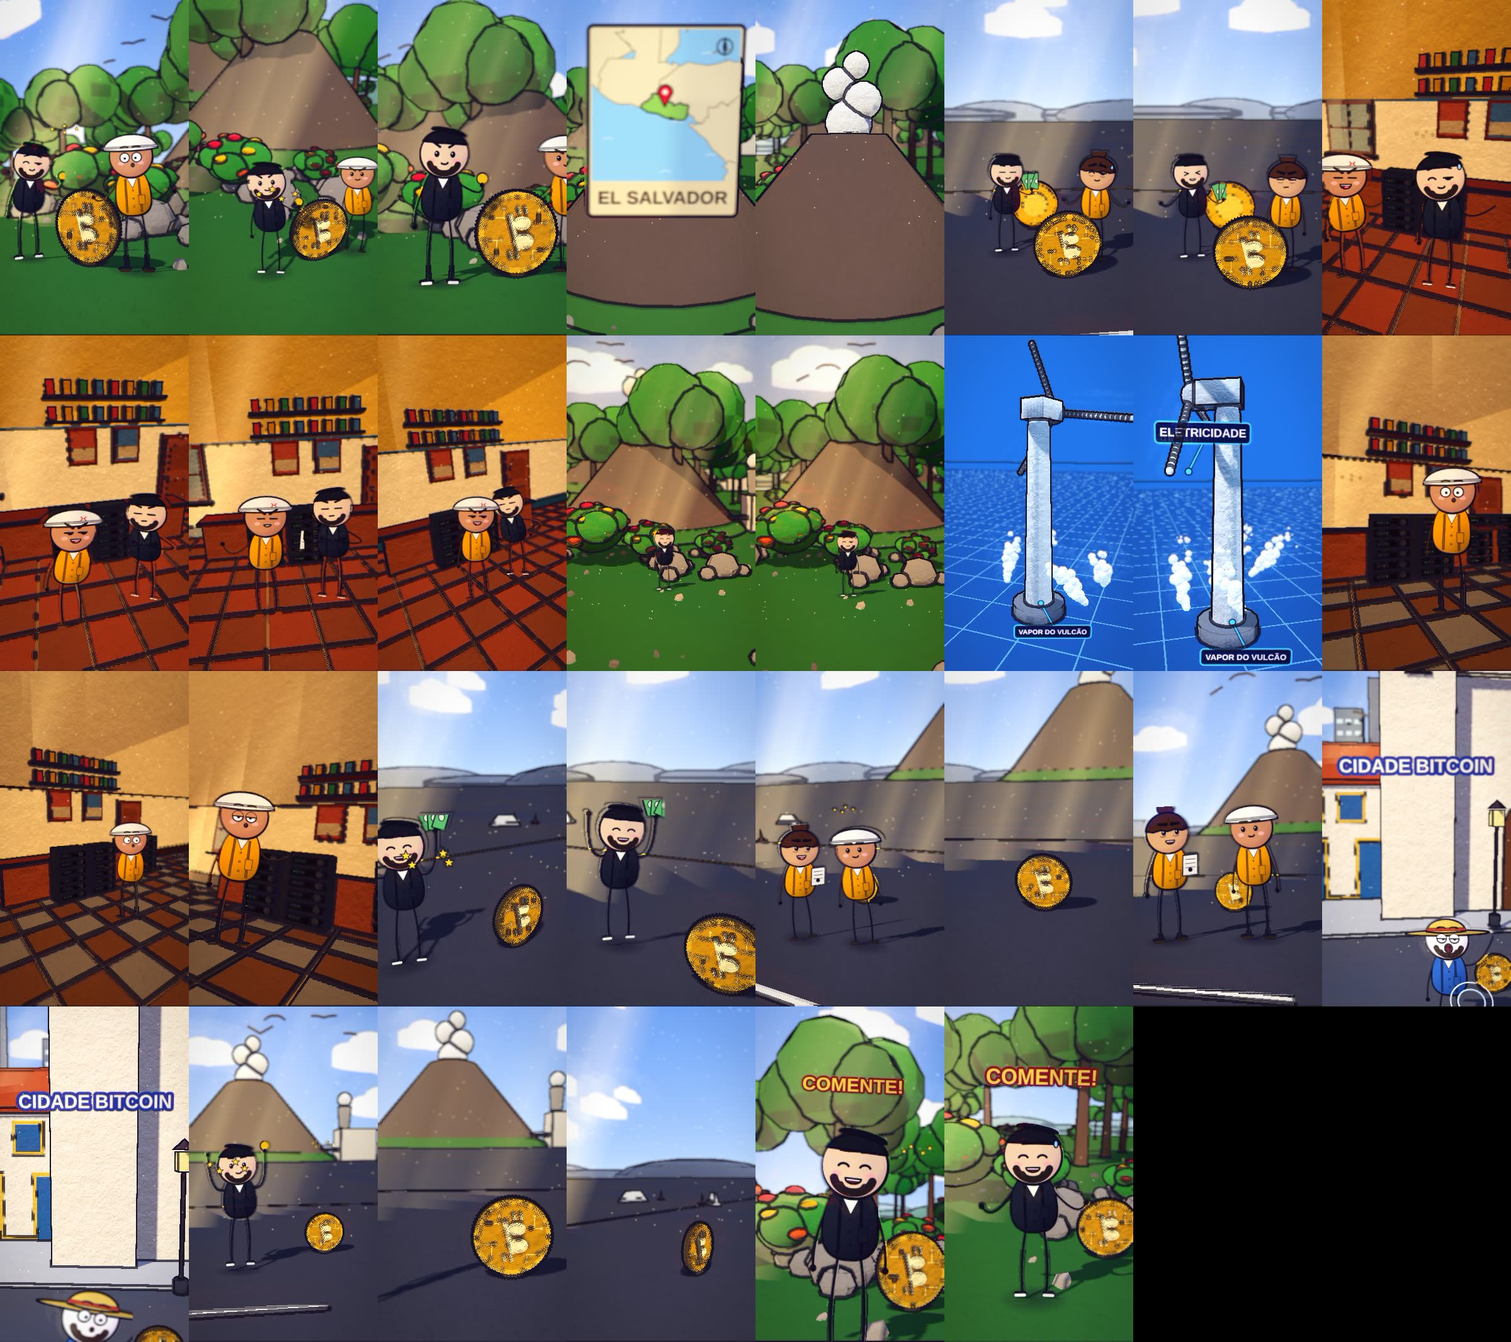
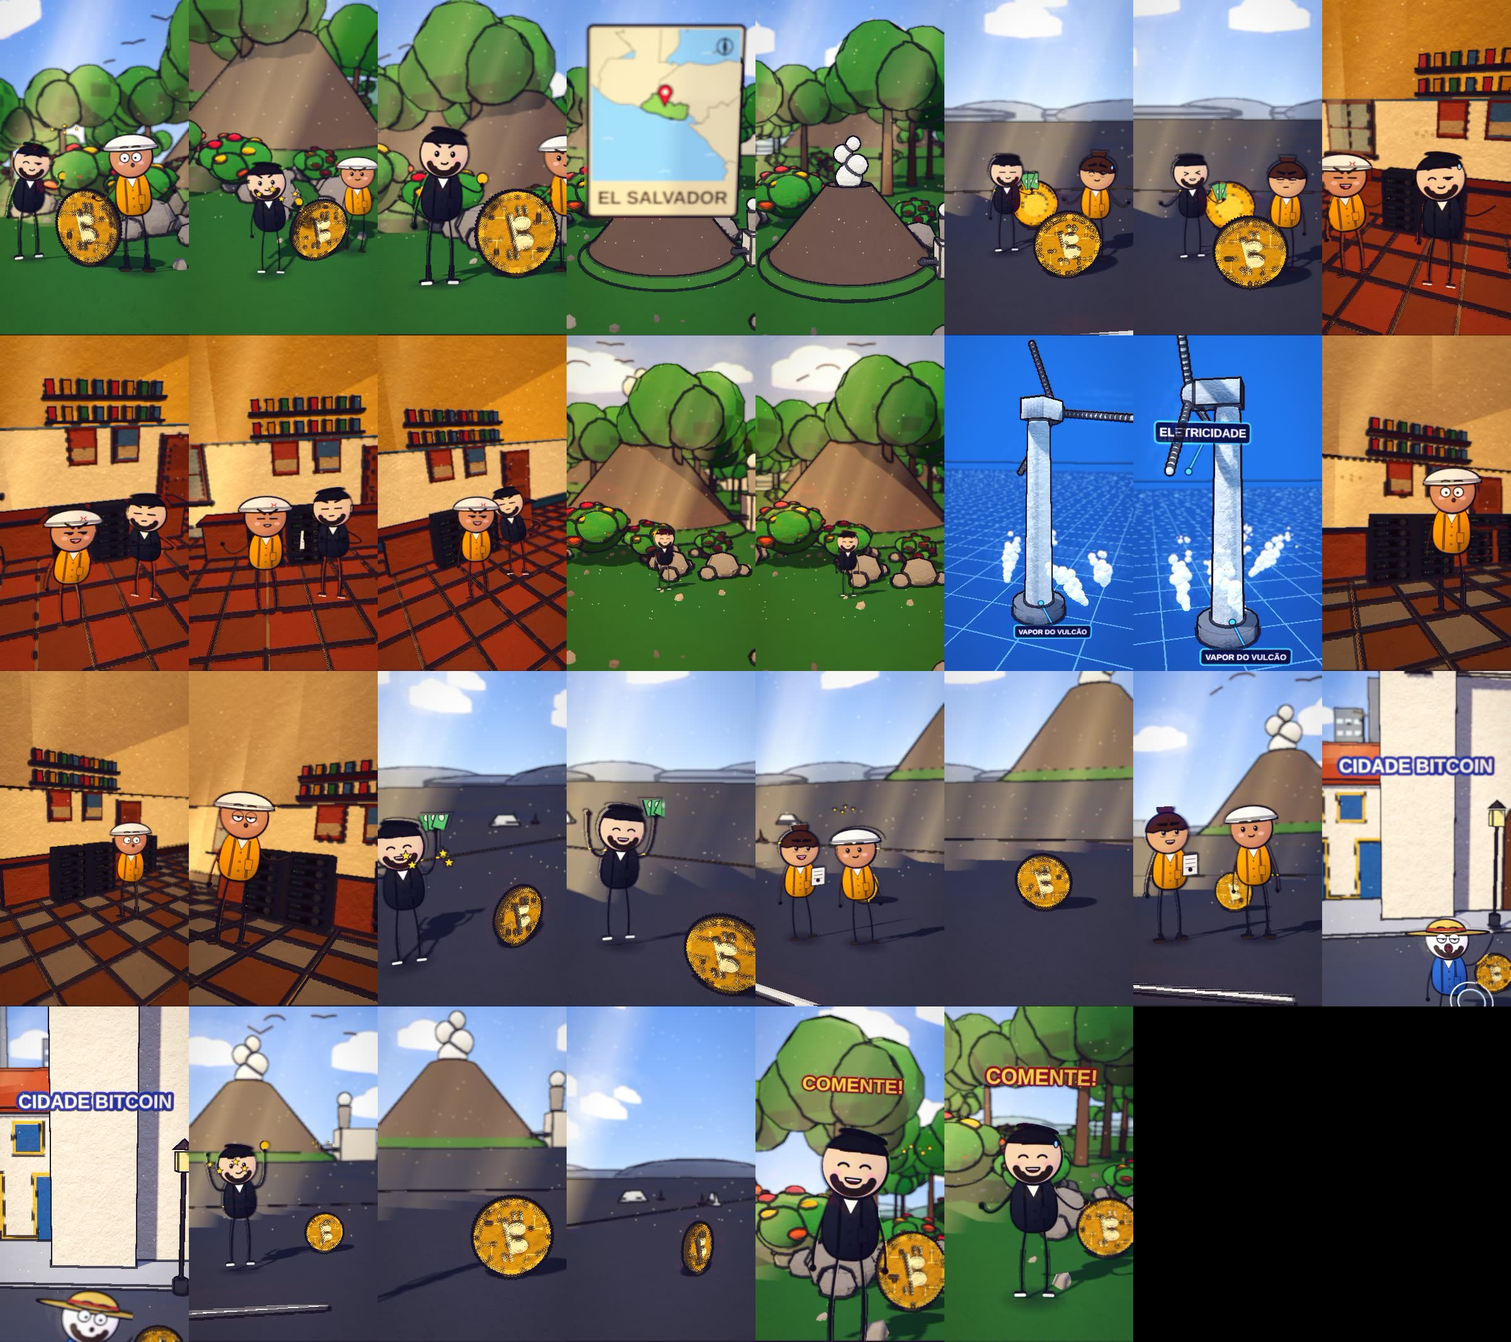
ckpt antes do sync automatico da ferramenta

Changed region(s): [[0.375, 0.031, 0.625, 0.2477]]

diff --git a/ferramenta-shorts/web/story.js b/ferramenta-shorts/web/story.js
@@ -35,7 +35,7 @@ const SPEC = {
   kicks: [], flashes: [],
   shots: [
     S('b0', A[0], A[1] - 1, X, "day", { h: 2.3, d0: 12.1, d1: 11.5, az0: -6, az1: 8, cx: 0.0, cz: -0.6, hero: { hero: 'any', frame: 'medium', minH: 0.07, main: 2 }, actors: [pp(X, "BUK", 0, -1.0, 1.3, ((f) => f >= WS(5) - 4 ? "determined" : "smug"), { over: { hold: "coin" }, inter: { k: 'nod', a: Math.round(A[0] + (A[1] - 1 - (A[0])) * 0.12), b: Math.round(A[0] + (A[1] - 1 - (A[0])) * 0.82), dir: 1, n: 2, ph: 0 } }), pp(X, "ENG", 0, 1.0, 1.0, ((f) => f >= WS(5) - 4 ? "determined" : "surprised"), { pose: 'talk', inter: { k: 'lean', a: Math.round(A[0] + (A[1] - 1 - (A[0])) * 0.2), b: Math.round(A[0] + (A[1] - 1 - (A[0])) * 0.9), dir: -1, n: 2, ph: 3.14 } })], props: [{ asset: "kit/bitcoin", at: [X + 0.6, 1.0], s: 1.5, fixo: true, drop: false }, { asset: "kit/volcano", at: [X + 7.0, -18.8], s: 2.6, fixo: true, drop: false }, { asset: "kit/volcano", at: [X + 0, -120], s: 9.0, drop: false }], fx: [{ k: 'stars', a: A[0] + 6, b: A[0] + 40, at: [X + 0.6, DK + 1.6, 1.5], s: 0.8 }, { k: 'birds', a: A[0], b: A[1] - 1, at: [X, DK + 4.5, -30], n: 4, dir: 1, off: 8 }, { k: "stars", a: A[0] + 30, b: A[0] + 56, at: [X, DK + 0.5, 1.2], s: 1.1 }, { k: "stars", a: WS(7), b: WS(7) + 28, at: [X + -1.0, DK + 0.5, 2.5], s: 1.1 }] }),
-    { ...S('b1', A[1], A[2] - 1, X, "day", { h: 4.0, d0: 21.0, d1: 20.0, el: 5, fov: 46, cx: 0.0, cz: -2.0, hero: { hero: 'none', wide: true }, vary: false, nocut: true, trans: 'dissolve', actors: [pp(X, "POV", 0, 0.0, -0.4, "smile")], props: [{ asset: "kit/volcano", at: [X + 0.0, -1.0], s: 1.56, fixo: true, drop: false }, { asset: "kit/volcano", at: [X + 0, -120], s: 9.0, drop: false }], fx: [{ k: 'map', a: WS(18, -2), b: Math.min(A[2] - 1, WS(18, -2) + 54), text: "EL SALVADOR", geo: {"polys": [[656, 174, 654, 177, 652, 178, 647, 187, 646, 188, 645, 181, 643, 181, 640, 183, 638, 186, 641, 190, 643, 190, 646, 192, 654, 221, 652, 226, 647, 234, 643, 241, 638, 246, 632, 264, 627, 294, 631, 321, 629, 346, 631, 352, 631, 360, 627, 361, 625, 361, 623, 356, 623, 352, 626, 348, 627, 341, 625, 338, 623, 345, 619, 348, 617, 350, 614, 353, 617, 360, 620, 365, 621, 369, 620, 373, 619, 388, 618, 387, 617, 385, 613, 385, 613, 391, 613, 394, 610, 397, 609, 399, 612, 401, 614, 402, 618, 402, 621, 409, 621, 415, 615, 420, 613, 425, 609, 430, 607, 436, 606, 440, 609, 452, 613, 460, 617, 466, 622, 467, 621, 473, 617, 477, 610, 480, 603, 480, 590, 477, 585, 477, 583, 475, 583, 473, 579, 468, 573, 463, 569, 463, 563, 462, 553, 458, 548, 457, 541, 461, 534, 465, 515, 458, 501, 454, 490, 449, 486, 448, 484, 448, 482, 450, 479, 454, 478, 455, 477, 456, 475, 457, 475, 455, 469, 447, 460, 437, 425, 408, 412, 391, 405, 378, 398, 371, 379, 358, 374, 353, 355, 335, 341, 324, 341, 320, 347, 314, 350, 314, 353, 318, 358, 323, 360, 323, 364, 321, 364, 319, 383, 318, 387, 317, 390, 313, 392, 309, 393, 305, 393, 301, 396, 298, 402, 297, 406, 297, 408, 295, 406, 288, 404, 272, 404, 267, 404, 264, 406, 262, 415, 262, 431, 263, 434, 262, 441, 253, 447, 246, 451, 243, 455, 242, 458, 248, 472, 257, 475, 256, 476, 256, 476, 254, 476, 250, 480, 247, 487, 243, 494, 238, 501, 229, 507, 224, 513, 223, 515, 221, 513, 218, 514, 213, 516, 208, 519, 204, 523, 204, 525, 202, 524, 199, 525, 196, 528, 191, 537, 187, 542, 189, 546, 194, 552, 198, 559, 200, 565, 199, 570, 196, 573, 195, 577, 196, 578, 195, 579, 192, 580, 192, 584, 193, 587, 194, 589, 193, 590, 191, 591, 190, 592, 189, 599, 190, 606, 188, 615, 184, 620, 182, 623, 182, 626, 180, 629, 175, 638, 173, 656, 174], [-1717, -1087, -1549, -1101, -1325, -1011, -1094, -1001, -1017, -1033, -941, -1006, -847, -905, -776, -848, -721, -856, -659, -891, -611, -879, -544, -798, -492, -735, -482, -694, -434, -642, -342, -610, -340, -562, -364, -394, -336, -302, -343, -302, -336, -265, -250, -128, -215, -92, -149, -67, -40, -73, 40, -94, 89, -87, 76, -104, 144, -182, 186, -276, 306, -301, 376, -295, 378, -303, 393, -243, 352, -174, 357, -150, 352, -137, 321, -74, 299, -79, 255, -36, 135, -29, 93, 22, 145, 70, 92, 97, 33, 168, 24, 204, -83, 110, -122, 89, -145, 77, -173, 80, -256, 124, -444, 62, -601, 1, -698, -45, -828, -121, -913, -209, -899, -242, -884, -293, -956, -406, -1044, -500, -1080, -524, -1083, -550, -1151, -580, -1163, -588, -1157, -636, -1207, -673, -1258, -722, -1297, -759, -1362, -826, -1398, -885, -1434, -973, -1444, -996, -1504, -1014, -1557, -1035, -1543, -922, -1467, -841, -1435, -798, -1411, -754, -1359, -687, -1344, -681, -1309, -602, -1270, -516, -1241, -492, -1199, -460, -1207, -396, -1272, -465, -1346, -519, -1366, -591, -1439, -686, -1498, -689, -1558, -737, -1518, -750, -1516, -755, -1564, -859, -1625, -927, -1661, -992, -1681, -1038], [656, 174, 629, 175, 623, 182, 615, 184, 599, 190, 591, 190, 589, 193, 584, 193, 579, 192, 577, 196, 570, 196, 559, 200, 546, 194, 537, 187, 525, 196, 525, 202, 519, 204, 514, 213, 515, 221, 507, 224, 494, 238, 480, 247, 476, 254, 475, 256, 458, 248, 451, 243, 441, 253, 431, 263, 406, 262, 404, 267, 406, 288, 406, 297, 396, 298, 393, 305, 390, 313, 383, 318, 364, 311, 356, 302, 354, 295, 346, 290, 334, 290, 336, 285, 335, 281, 333, 276, 337, 259, 331, 253, 318, 254, 312, 248, 299, 250, 286, 256, 283, 252, 282, 247, 271, 244, 266, 240, 257, 234, 246, 224, 239, 219, 224, 216, 224, 212, 236, 202, 234, 189, 233, 181, 238, 168, 250, 163, 270, 148, 292, 129, 302, 121, 314, 118, 324, 111, 338, 108, 350, 114, 361, 114, 394, 119, 424, 116, 445, 110, 462, 105, 458, 100, 493, 109, 524, 104, 552, 110, 563, 116, 567, 114, 561, 111, 613, 142, 599, 136, 589, 138, 590, 145, 596, 144, 606, 148, 614, 158, 620, 155, 629, 158, 628, 152, 622, 147, 646, 168, 656, 174], [428, 74, 417, 80, 413, 80, 418, 76, 427, 72, 434, 70, 440, 71, 428, 74], [466, 68, 461, 73, 460, 71, 463, 67, 466, 65, 469, 65, 468, 67, 466, 68], [22, 206, 24, 204, 25, 200, 27, 196, 26, 191, 25, 187, 27, 181, 27, 176, 28, 173, 31, 172, 33, 168, 24, 156, 24, 154, 25, 150, 32, 138, 41, 123, 51, 106, 57, 97, 78, 97, 92, 97, 110, 97, 129, 97, 142, 97, 147, 96, 146, 90, 147, 83, 149, 76, 149, 74, 145, 70, 138, 68, 134, 65, 134, 61, 132, 56, 128, 51, 121, 45, 110, 39, 100, 31, 93, 22, 86, 15, 81, 13, 80, 11, 95, 11, 109, 11, 109, -2, 109, -15, 109, -29, 135, -29, 165, -29, 197, -29, 222, -29, 237, -29, 236, -11, 235, 9, 235, 24, 234, 43, 233, 64, 232, 91, 231, 109, 232, 110, 240, 109, 252, 109, 255, 109, 259, 111, 262, 111, 268, 115, 276, 119, 280, 112, 278, 109, 276, 107, 276, 105, 302, 121, 299, 124, 292, 129, 280, 139, 270, 148, 260, 155, 250, 163, 249, 163, 238, 168, 236, 171, 233, 181, 232, 183, 234, 189, 236, 197, 236, 202, 228, 207, 224, 212, 223, 215, 221, 215, 219, 214, 213, 216, 210, 216, 208, 217, 207, 220, 209, 225, 210, 228, 208, 229, 201, 232, 198, 235, 195, 240, 192, 242, 189, 241, 187, 242, 182, 246, 175, 252, 171, 257, 171, 261, 171, 264, 145, 253, 136, 251, 98, 251, 82, 246, 63, 237, 51, 229, 22, 206], [223, 215, 224, 216, 236, 219, 239, 219, 244, 222, 246, 224, 248, 227, 257, 234, 259, 236, 266, 240, 268, 243, 271, 244, 277, 245, 282, 247, 282, 248, 283, 252, 284, 256, 286, 256, 289, 254, 299, 250, 307, 246, 312, 248, 315, 252, 318, 254, 325, 253, 331, 253, 336, 257, 337, 259, 334, 271, 333, 276, 333, 280, 335, 281, 336, 283, 336, 285, 331, 289, 329, 290, 330, 297, 326, 301, 323, 304, 316, 305, 305, 306, 288, 302, 276, 297, 270, 297, 272, 299, 277, 300, 284, 303, 282, 304, 257, 297, 228, 283, 211, 281, 192, 277, 180, 268, 171, 264, 171, 261, 171, 257, 175, 252, 182, 246, 187, 242, 189, 241, 192, 242, 195, 240, 198, 235, 201, 232, 208, 229, 210, 228, 209, 225, 207, 220, 208, 217, 210, 216, 213, 216, 219, 214, 221, 215, 223, 215], [697, 564, 697, 565, 696, 566, 694, 568, 692, 569, 686, 566, 681, 562, 678, 564, 677, 568, 675, 570, 672, 571, 671, 573, 671, 587, 671, 601, 675, 601, 682, 606, 685, 609, 686, 611, 685, 612, 680, 615, 675, 619, 673, 624, 677, 631, 678, 636, 678, 642, 677, 644, 667, 650, 665, 653, 665, 654, 670, 658, 673, 663, 675, 668, 675, 672, 671, 664, 664, 656, 658, 652, 658, 641, 656, 635, 647, 629, 639, 625, 634, 626, 637, 632, 646, 640, 647, 644, 646, 648, 641, 647, 635, 645, 629, 645, 625, 642, 616, 633, 622, 624, 624, 619, 624, 608, 622, 603, 615, 594, 604, 585, 589, 578, 582, 572, 563, 567, 556, 564, 551, 559, 550, 554, 552, 548, 547, 540, 526, 525, 513, 519, 511, 516, 509, 515, 511, 525, 516, 532, 530, 538, 534, 541, 535, 546, 527, 555, 523, 557, 522, 562, 519, 563, 516, 560, 505, 547, 484, 540, 480, 536, 471, 523, 468, 512, 469, 505, 478, 493, 481, 487, 480, 484, 481, 480, 477, 476, 469, 472, 464, 469, 465, 467, 475, 462, 475, 458, 475, 457, 477, 456, 478, 455, 479, 454, 482, 450, 484, 448, 486, 448, 490, 449, 501, 454, 515, 458, 534, 465, 541, 461, 548, 457, 553, 458, 563, 462, 569, 463, 573, 463, 579, 468, 583, 473, 583, 475, 585, 477, 590, 477, 603, 480, 610, 480, 617, 477, 621, 473, 622, 467, 624, 470, 626, 475, 627, 480, 636, 500, 643, 510, 658, 530, 665, 534, 676, 550, 680, 552, 682, 557, 694, 561, 697, 564], [237, -29, 236, -35, 238, -40, 244, -42, 252, -38, 255, -36, 258, -37, 261, -40, 266, -47, 277, -63, 281, -74, 285, -77, 292, -77, 297, -76, 293, -68, 297, -67, 301, -68, 309, -67, 312, -59, 311, -51, 303, -31, 302, -24, 299, -14, 304, -7, 299, 2, 297, 7, 297, 16, 300, 32, 296, 56, 289, 66, 285, 70, 278, 81, 269, 84, 256, 100, 254, 105, 255, 109, 252, 109, 240, 109, 232, 110, 231, 109, 232, 91, 233, 64, 234, 43, 235, 24, 235, 9, 236, -11, 237, -29], [328, -1, 323, 9, 322, 6, 324, -1, 327, -4, 329, -6, 330, -10, 332, -8, 332, -5, 328, -1]], "hl": [6], "pin": [254.0, 260.0]} }] }), nocut: true },
+    { ...S('b1', A[1], A[2] - 1, X, "day", { h: 4.0, d0: 21.0, d1: 20.0, el: 5, fov: 46, cx: 0.0, cz: -2.0, hero: { hero: 'none', wide: true }, vary: false, nocut: true, trans: 'dissolve', actors: [pp(X, "POV", 0, 0.0, -0.4, "smile")], props: [{ asset: "kit/volcano", at: [X + 0.0, -1.0], s: 0.94, fixo: true, drop: false }, { asset: "kit/volcano", at: [X + 0, -120], s: 9.0, drop: false }], fx: [{ k: 'map', a: WS(18, -2), b: Math.min(A[2] - 1, WS(18, -2) + 54), text: "EL SALVADOR", geo: {"polys": [[656, 174, 654, 177, 652, 178, 647, 187, 646, 188, 645, 181, 643, 181, 640, 183, 638, 186, 641, 190, 643, 190, 646, 192, 654, 221, 652, 226, 647, 234, 643, 241, 638, 246, 632, 264, 627, 294, 631, 321, 629, 346, 631, 352, 631, 360, 627, 361, 625, 361, 623, 356, 623, 352, 626, 348, 627, 341, 625, 338, 623, 345, 619, 348, 617, 350, 614, 353, 617, 360, 620, 365, 621, 369, 620, 373, 619, 388, 618, 387, 617, 385, 613, 385, 613, 391, 613, 394, 610, 397, 609, 399, 612, 401, 614, 402, 618, 402, 621, 409, 621, 415, 615, 420, 613, 425, 609, 430, 607, 436, 606, 440, 609, 452, 613, 460, 617, 466, 622, 467, 621, 473, 617, 477, 610, 480, 603, 480, 590, 477, 585, 477, 583, 475, 583, 473, 579, 468, 573, 463, 569, 463, 563, 462, 553, 458, 548, 457, 541, 461, 534, 465, 515, 458, 501, 454, 490, 449, 486, 448, 484, 448, 482, 450, 479, 454, 478, 455, 477, 456, 475, 457, 475, 455, 469, 447, 460, 437, 425, 408, 412, 391, 405, 378, 398, 371, 379, 358, 374, 353, 355, 335, 341, 324, 341, 320, 347, 314, 350, 314, 353, 318, 358, 323, 360, 323, 364, 321, 364, 319, 383, 318, 387, 317, 390, 313, 392, 309, 393, 305, 393, 301, 396, 298, 402, 297, 406, 297, 408, 295, 406, 288, 404, 272, 404, 267, 404, 264, 406, 262, 415, 262, 431, 263, 434, 262, 441, 253, 447, 246, 451, 243, 455, 242, 458, 248, 472, 257, 475, 256, 476, 256, 476, 254, 476, 250, 480, 247, 487, 243, 494, 238, 501, 229, 507, 224, 513, 223, 515, 221, 513, 218, 514, 213, 516, 208, 519, 204, 523, 204, 525, 202, 524, 199, 525, 196, 528, 191, 537, 187, 542, 189, 546, 194, 552, 198, 559, 200, 565, 199, 570, 196, 573, 195, 577, 196, 578, 195, 579, 192, 580, 192, 584, 193, 587, 194, 589, 193, 590, 191, 591, 190, 592, 189, 599, 190, 606, 188, 615, 184, 620, 182, 623, 182, 626, 180, 629, 175, 638, 173, 656, 174], [-1717, -1087, -1549, -1101, -1325, -1011, -1094, -1001, -1017, -1033, -941, -1006, -847, -905, -776, -848, -721, -856, -659, -891, -611, -879, -544, -798, -492, -735, -482, -694, -434, -642, -342, -610, -340, -562, -364, -394, -336, -302, -343, -302, -336, -265, -250, -128, -215, -92, -149, -67, -40, -73, 40, -94, 89, -87, 76, -104, 144, -182, 186, -276, 306, -301, 376, -295, 378, -303, 393, -243, 352, -174, 357, -150, 352, -137, 321, -74, 299, -79, 255, -36, 135, -29, 93, 22, 145, 70, 92, 97, 33, 168, 24, 204, -83, 110, -122, 89, -145, 77, -173, 80, -256, 124, -444, 62, -601, 1, -698, -45, -828, -121, -913, -209, -899, -242, -884, -293, -956, -406, -1044, -500, -1080, -524, -1083, -550, -1151, -580, -1163, -588, -1157, -636, -1207, -673, -1258, -722, -1297, -759, -1362, -826, -1398, -885, -1434, -973, -1444, -996, -1504, -1014, -1557, -1035, -1543, -922, -1467, -841, -1435, -798, -1411, -754, -1359, -687, -1344, -681, -1309, -602, -1270, -516, -1241, -492, -1199, -460, -1207, -396, -1272, -465, -1346, -519, -1366, -591, -1439, -686, -1498, -689, -1558, -737, -1518, -750, -1516, -755, -1564, -859, -1625, -927, -1661, -992, -1681, -1038], [656, 174, 629, 175, 623, 182, 615, 184, 599, 190, 591, 190, 589, 193, 584, 193, 579, 192, 577, 196, 570, 196, 559, 200, 546, 194, 537, 187, 525, 196, 525, 202, 519, 204, 514, 213, 515, 221, 507, 224, 494, 238, 480, 247, 476, 254, 475, 256, 458, 248, 451, 243, 441, 253, 431, 263, 406, 262, 404, 267, 406, 288, 406, 297, 396, 298, 393, 305, 390, 313, 383, 318, 364, 311, 356, 302, 354, 295, 346, 290, 334, 290, 336, 285, 335, 281, 333, 276, 337, 259, 331, 253, 318, 254, 312, 248, 299, 250, 286, 256, 283, 252, 282, 247, 271, 244, 266, 240, 257, 234, 246, 224, 239, 219, 224, 216, 224, 212, 236, 202, 234, 189, 233, 181, 238, 168, 250, 163, 270, 148, 292, 129, 302, 121, 314, 118, 324, 111, 338, 108, 350, 114, 361, 114, 394, 119, 424, 116, 445, 110, 462, 105, 458, 100, 493, 109, 524, 104, 552, 110, 563, 116, 567, 114, 561, 111, 613, 142, 599, 136, 589, 138, 590, 145, 596, 144, 606, 148, 614, 158, 620, 155, 629, 158, 628, 152, 622, 147, 646, 168, 656, 174], [428, 74, 417, 80, 413, 80, 418, 76, 427, 72, 434, 70, 440, 71, 428, 74], [466, 68, 461, 73, 460, 71, 463, 67, 466, 65, 469, 65, 468, 67, 466, 68], [22, 206, 24, 204, 25, 200, 27, 196, 26, 191, 25, 187, 27, 181, 27, 176, 28, 173, 31, 172, 33, 168, 24, 156, 24, 154, 25, 150, 32, 138, 41, 123, 51, 106, 57, 97, 78, 97, 92, 97, 110, 97, 129, 97, 142, 97, 147, 96, 146, 90, 147, 83, 149, 76, 149, 74, 145, 70, 138, 68, 134, 65, 134, 61, 132, 56, 128, 51, 121, 45, 110, 39, 100, 31, 93, 22, 86, 15, 81, 13, 80, 11, 95, 11, 109, 11, 109, -2, 109, -15, 109, -29, 135, -29, 165, -29, 197, -29, 222, -29, 237, -29, 236, -11, 235, 9, 235, 24, 234, 43, 233, 64, 232, 91, 231, 109, 232, 110, 240, 109, 252, 109, 255, 109, 259, 111, 262, 111, 268, 115, 276, 119, 280, 112, 278, 109, 276, 107, 276, 105, 302, 121, 299, 124, 292, 129, 280, 139, 270, 148, 260, 155, 250, 163, 249, 163, 238, 168, 236, 171, 233, 181, 232, 183, 234, 189, 236, 197, 236, 202, 228, 207, 224, 212, 223, 215, 221, 215, 219, 214, 213, 216, 210, 216, 208, 217, 207, 220, 209, 225, 210, 228, 208, 229, 201, 232, 198, 235, 195, 240, 192, 242, 189, 241, 187, 242, 182, 246, 175, 252, 171, 257, 171, 261, 171, 264, 145, 253, 136, 251, 98, 251, 82, 246, 63, 237, 51, 229, 22, 206], [223, 215, 224, 216, 236, 219, 239, 219, 244, 222, 246, 224, 248, 227, 257, 234, 259, 236, 266, 240, 268, 243, 271, 244, 277, 245, 282, 247, 282, 248, 283, 252, 284, 256, 286, 256, 289, 254, 299, 250, 307, 246, 312, 248, 315, 252, 318, 254, 325, 253, 331, 253, 336, 257, 337, 259, 334, 271, 333, 276, 333, 280, 335, 281, 336, 283, 336, 285, 331, 289, 329, 290, 330, 297, 326, 301, 323, 304, 316, 305, 305, 306, 288, 302, 276, 297, 270, 297, 272, 299, 277, 300, 284, 303, 282, 304, 257, 297, 228, 283, 211, 281, 192, 277, 180, 268, 171, 264, 171, 261, 171, 257, 175, 252, 182, 246, 187, 242, 189, 241, 192, 242, 195, 240, 198, 235, 201, 232, 208, 229, 210, 228, 209, 225, 207, 220, 208, 217, 210, 216, 213, 216, 219, 214, 221, 215, 223, 215], [697, 564, 697, 565, 696, 566, 694, 568, 692, 569, 686, 566, 681, 562, 678, 564, 677, 568, 675, 570, 672, 571, 671, 573, 671, 587, 671, 601, 675, 601, 682, 606, 685, 609, 686, 611, 685, 612, 680, 615, 675, 619, 673, 624, 677, 631, 678, 636, 678, 642, 677, 644, 667, 650, 665, 653, 665, 654, 670, 658, 673, 663, 675, 668, 675, 672, 671, 664, 664, 656, 658, 652, 658, 641, 656, 635, 647, 629, 639, 625, 634, 626, 637, 632, 646, 640, 647, 644, 646, 648, 641, 647, 635, 645, 629, 645, 625, 642, 616, 633, 622, 624, 624, 619, 624, 608, 622, 603, 615, 594, 604, 585, 589, 578, 582, 572, 563, 567, 556, 564, 551, 559, 550, 554, 552, 548, 547, 540, 526, 525, 513, 519, 511, 516, 509, 515, 511, 525, 516, 532, 530, 538, 534, 541, 535, 546, 527, 555, 523, 557, 522, 562, 519, 563, 516, 560, 505, 547, 484, 540, 480, 536, 471, 523, 468, 512, 469, 505, 478, 493, 481, 487, 480, 484, 481, 480, 477, 476, 469, 472, 464, 469, 465, 467, 475, 462, 475, 458, 475, 457, 477, 456, 478, 455, 479, 454, 482, 450, 484, 448, 486, 448, 490, 449, 501, 454, 515, 458, 534, 465, 541, 461, 548, 457, 553, 458, 563, 462, 569, 463, 573, 463, 579, 468, 583, 473, 583, 475, 585, 477, 590, 477, 603, 480, 610, 480, 617, 477, 621, 473, 622, 467, 624, 470, 626, 475, 627, 480, 636, 500, 643, 510, 658, 530, 665, 534, 676, 550, 680, 552, 682, 557, 694, 561, 697, 564], [237, -29, 236, -35, 238, -40, 244, -42, 252, -38, 255, -36, 258, -37, 261, -40, 266, -47, 277, -63, 281, -74, 285, -77, 292, -77, 297, -76, 293, -68, 297, -67, 301, -68, 309, -67, 312, -59, 311, -51, 303, -31, 302, -24, 299, -14, 304, -7, 299, 2, 297, 7, 297, 16, 300, 32, 296, 56, 289, 66, 285, 70, 278, 81, 269, 84, 256, 100, 254, 105, 255, 109, 252, 109, 240, 109, 232, 110, 231, 109, 232, 91, 233, 64, 234, 43, 235, 24, 235, 9, 236, -11, 237, -29], [328, -1, 323, 9, 322, 6, 324, -1, 327, -4, 329, -6, 330, -10, 332, -8, 332, -5, 328, -1]], "hl": [6], "pin": [254.0, 260.0]} }] }), nocut: true },
     { ...S('b2', A[2], A[3] - 1, X_loc_pista, "day", { h: 2.6, d0: 12.1, d1: 11.5, el: 11, fov: 46, cx: 0.0, cz: -0.6, hero: { hero: 'none', wide: true }, vary: false, nocut: true, trans: 'dissolve', actors: [pp(X_loc_pista, "BUK", 0, -1.0, -0.4, "grin", { over: { hold: "money" }, pose: 'talk' }), pp(X_loc_pista, "ENA", 0, 1.0, 0.2, "suspicious", { pose: 'talk' })], props: [{ asset: "kit/bitcoin", at: [X_loc_pista + 0.6, 1.0], s: 1.5, fixo: true, drop: false }, { asset: "kit/coin", at: [X_loc_pista + 0.0, -2.3], s: 1.5, drop: false }], fx: [{ k: 'birds', a: A[2], b: A[3] - 1, at: [X_loc_pista, DK + 7.5, -30], n: 6, dir: -1, off: 8 }, { k: "ring", a: A[2] + 12, b: A[2] + 38, at: [X_loc_pista, DK + 0.5, 1.2], s: 1.1 }, { k: "dust", a: A[2] + 40, b: A[2] + 66, at: [X_loc_pista + 0.9, DK + 0.12, 1.0], s: 0.75 }] }), nocut: true },
     S('b3', A[3], A[4] - 1, X_hall, "study", { h: 2.3, d0: 7.3, d1: 6.86, fov: 67.6, az0: -10, az1: -5, cx: 0.0, cz: -0.6, hero: { hero: 'any', frame: 'medium', minH: 0.07, main: 2 }, trans: 'dissolve', actors: [pp(X_hall, "ENG", 0, -1.0, 1.3, "worried", { over: { hold: "paper" }, pose: 'argue', inter: { k: 'lunge', a: Math.round(A[3] + (A[4] - 1 - (A[3])) * 0.12), b: Math.round(A[3] + (A[4] - 1 - (A[3])) * 0.82), dir: 1, n: 2, ph: 0 } }), pp(X_hall, "BUK", 0, 1.0, 1.0, "suspicious", { pose: 'argue', inter: { k: 'lunge', a: Math.round(A[3] + (A[4] - 1 - (A[3])) * 0.2), b: Math.round(A[3] + (A[4] - 1 - (A[3])) * 0.9), dir: -1, n: 2, ph: 3.14 } })], props: [{ asset: "kit/room_colonial_shop", at: [X_hall, 0], s: 1, drop: false }, { asset: "kit/miners", at: [X_hall + 0.0, -1.2], s: 1.0, fixo: true, drop: false }, { asset: "kit/bitcoin", at: [X_hall + 0.0, -2.3], s: 1.0, drop: false }], fx: [{ k: 'stars', a: A[3] + 6, b: A[3] + 40, at: [X_hall + 0.0, DK + 1.6, -1.8], s: 0.8 }] }),
     { ...S('b4', A[4], A[5] - 1, X, "desert", { h: 4.0, d0: 21.0, d1: 20.0, el: 5, fov: 46, cx: 0.0, cz: -2.0, hero: { hero: 'none', wide: true }, vary: false, nocut: true, trans: 'dissolve', actors: [pp(X, "BUK", 0, 0.0, -0.4, "smug")], props: [{ asset: "kit/volcano", at: [X + 0.0, -20.5], s: 2.6, fixo: true, drop: false }, { asset: "kit/volcano", at: [X + 0, -120], s: 9.0, drop: false }], fx: [{ k: 'birds', a: A[4], b: A[5] - 1, at: [X, DK + 6.0, -30], n: 5, dir: 1, off: 8 }, { k: "ring", a: A[4] + 40, b: A[4] + 66, at: [X, DK + 0.5, 1.2], s: 1.1 }] }), nocut: true },

diff --git a/ferramenta-shorts/stories/vulcao2021/cronograma.md b/ferramenta-shorts/stories/vulcao2021/cronograma.md
@@ -30,13 +30,13 @@ N | Etapa | O que confere | Estado | Proximo passo
 5 | Voz | narracao neural gerada e tempos por palavra | FEITO | 
 6 | Estilo e enquadramento | autoajuste de luz/cor e ajuste de camera de cada tomada | FEITO | 
 7 | Gates | camera OK, todas as tomadas OK, estilo OK | FEITO | 
-8 | Storyboard e grade de acoes | video inteiro em quadros + 1 quadro no instante de cada acao | PENDENTE | 
-9 | Revisao escrita e aprovacao | uma linha por frase conferindo com a folha 3 e com o quadro da pesquisa | BLOQUEADO (etapa anterior pendente) | ./aprovar_storyboard.sh vulcao2021
+8 | Storyboard e grade de acoes | video inteiro em quadros + 1 quadro no instante de cada acao | FEITO | 
+9 | Revisao escrita e aprovacao | uma linha por frase conferindo com a folha 3 e com o quadro da pesquisa | PENDENTE | ./aprovar_storyboard.sh vulcao2021
 10 | Render | todos os quadros renderizados nesta versao das folhas | BLOQUEADO (etapa anterior pendente) | 
 11 | Montagem e som | trechos + voz + musica + efeitos; volume normalizado | BLOQUEADO (etapa anterior pendente) | 
 12 | Conferencia | conferir.sh sem falha e folha de contato olhada | BLOQUEADO (etapa anterior pendente) | ./conferir.sh vulcao2021
 13 | Auditoria das acoes | 1 quadro do mp4 em cada palavra de acao | BLOQUEADO (etapa anterior pendente) | bash auditar_acoes.sh local vulcao2021 <mp4>
 14 | Entrega | mp4 original 1080x1920 enviado; commit e push | BLOQUEADO (etapa anterior pendente) | 
 
-**Etapa atual:** 8. Storyboard e grade de acoes
+**Etapa atual:** 9. Revisao escrita e aprovacao
 
